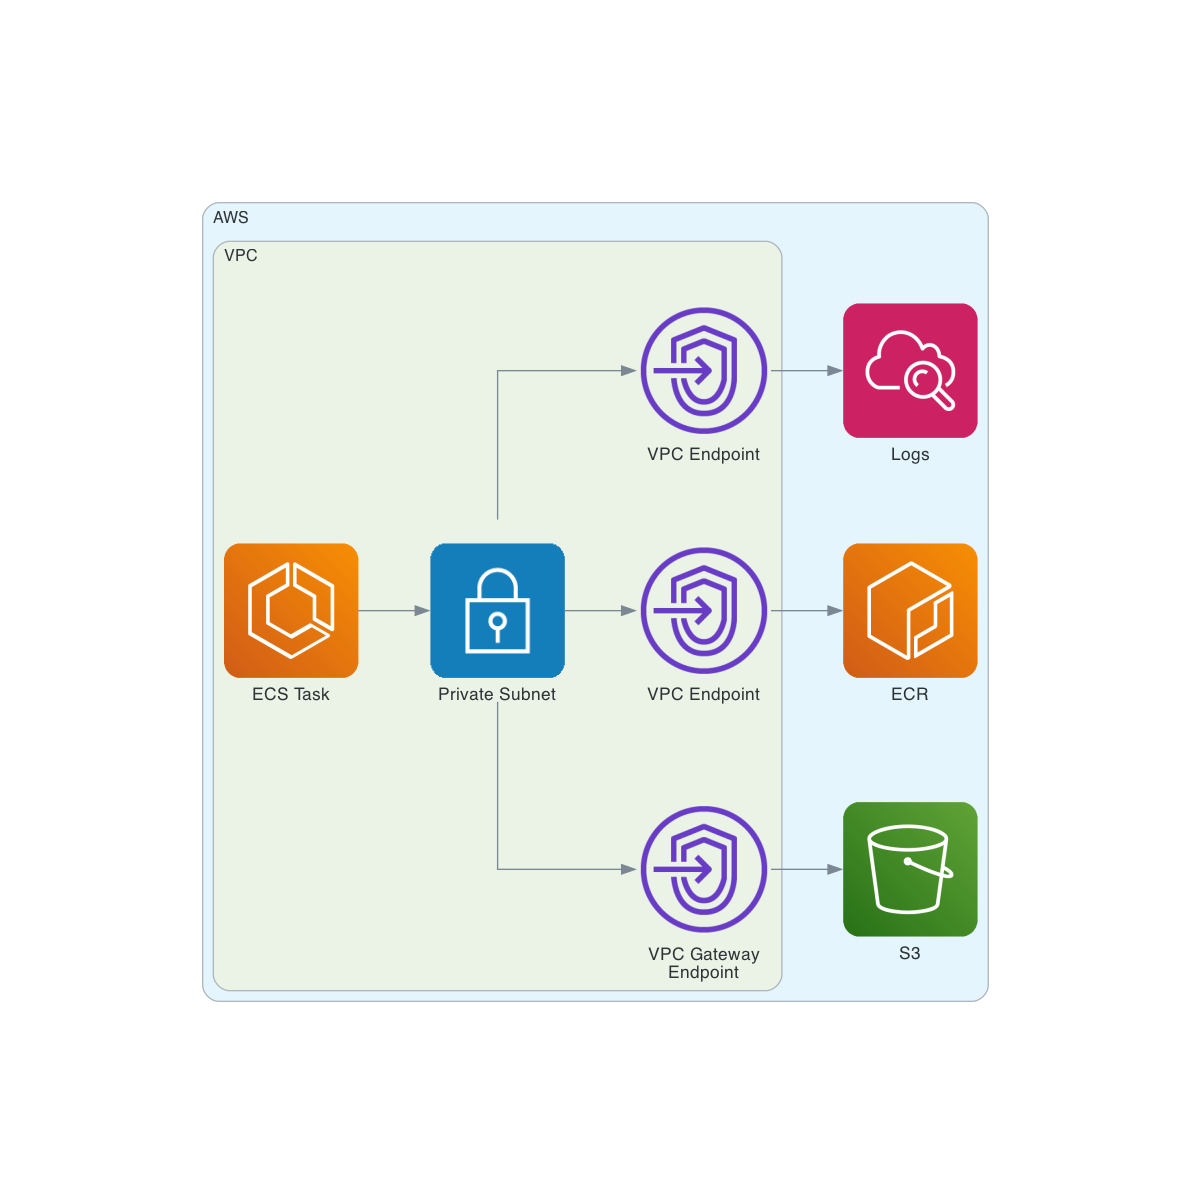
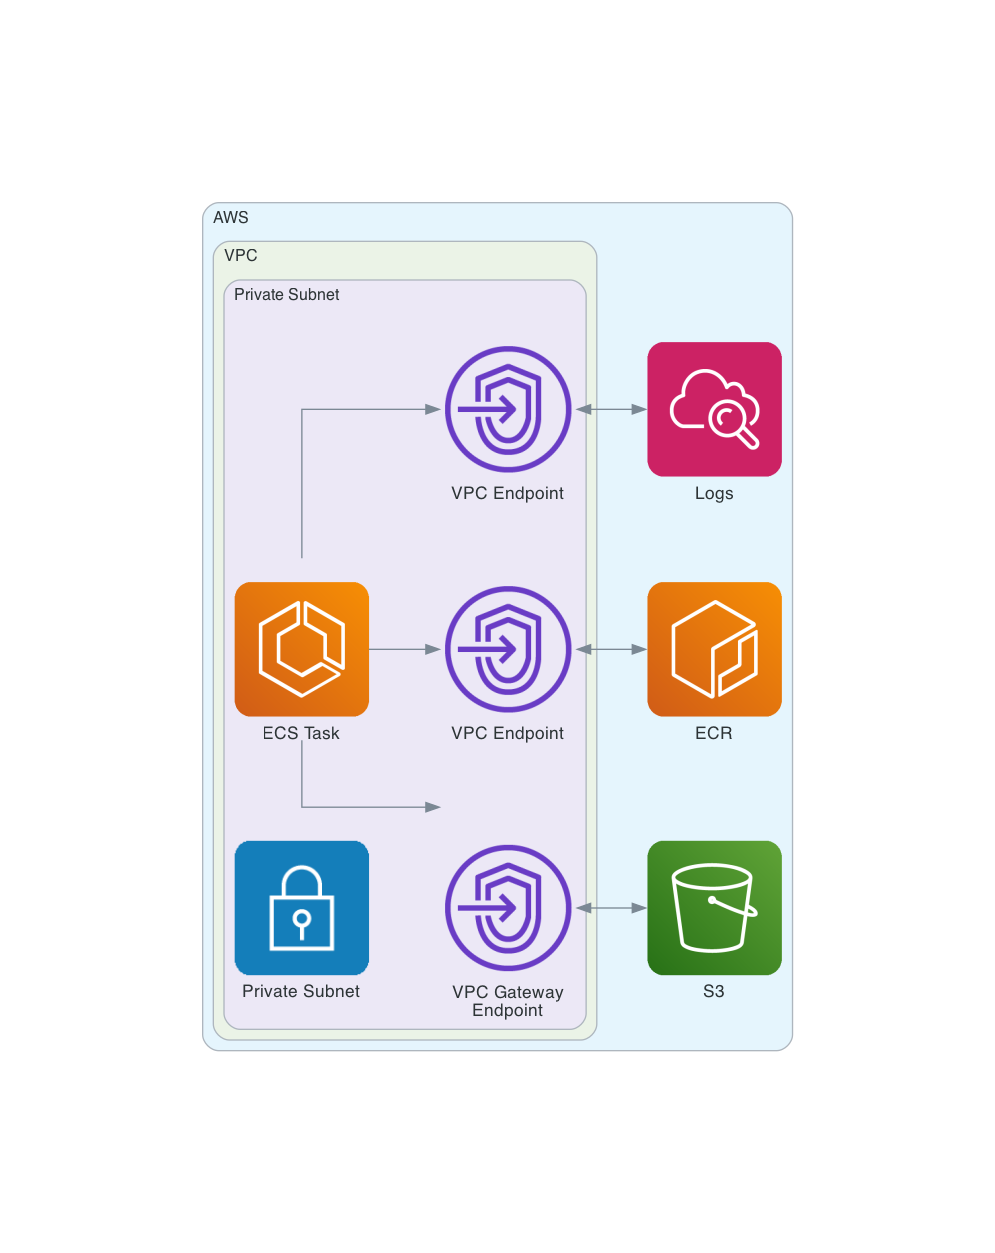
diagrams: Tweak VPC diagrams

Changed region(s): [[0.1558, 0.1537, 0.8412, 0.8605], [0.405, 0.6146, 0.4362, 0.6453]]

diff --git a/diagrams/vpc_diagram.py b/diagrams/vpc_diagram.py
@@ -1,4 +1,4 @@
-from diagrams import Cluster, Diagram
+from diagrams import Cluster, Diagram, Edge
 from diagrams.aws.compute import ECS, ECR
 from diagrams.aws.network import InternetGateway, PublicSubnet, Endpoint
 from diagrams.aws.storage import S3
@@ -15,15 +15,16 @@ with Diagram("", filename="vpc_diagram", outformat="png"):
     s3 = S3("S3")
     
     with Cluster("VPC"):
-      igw = InternetGateway("Internet\nGateway")
-      publicSubnet = PublicSubnet("Public Subnet")
 
-      s3Endpoint = Endpoint("VPC Gateway\nEndpoint")
-      
-      ecs = ECS("ECS Task")
-      ecs >> publicSubnet
-      publicSubnet >> igw
-      publicSubnet >> s3Endpoint >>s3
+      with Cluster("Public Subnet"):
+        publicSubnet = PublicSubnet("Public Subnet")
+
+        igw = InternetGateway("Internet\nGateway")
+        s3Endpoint = Endpoint("VPC Gateway\nEndpoint")
+        ecs = ECS("ECS Task")
+
+      ecs >>  igw
+      ecs >> s3Endpoint >> Edge(label="") << s3
            
-  igw >> internet
+  igw >> Edge(label="") << internet
   internet >> [ecr, logs]

diff --git a/diagrams/vpc_diagram_alt.py b/diagrams/vpc_diagram_alt.py
@@ -13,12 +13,11 @@ with Diagram("", filename="vpc_diagram_alt", outformat="png"):
     
     
     with Cluster("VPC"):
-      ecs = ECS("ECS Task")
-      privateSubnet = PrivateSubnet("Private Subnet")
+      with Cluster("Private Subnet"):
+        ecs = ECS("ECS Task")
+        privateSubnet = PrivateSubnet("Private Subnet")
 
-      ecs >> privateSubnet 
-
-      privateSubnet >> Endpoint("VPC Gateway\nEndpoint") >> s3
-      privateSubnet >> Endpoint("VPC Endpoint") >> ecr
-      privateSubnet >> Endpoint("VPC Endpoint") >> logs
+        ecs >> Endpoint("VPC Gateway\nEndpoint") >> Edge(label="") << s3
+        ecs >> Endpoint("VPC Endpoint") >> Edge(label="") << ecr
+        ecs >> Endpoint("VPC Endpoint") >> Edge(label="") << logs
   
